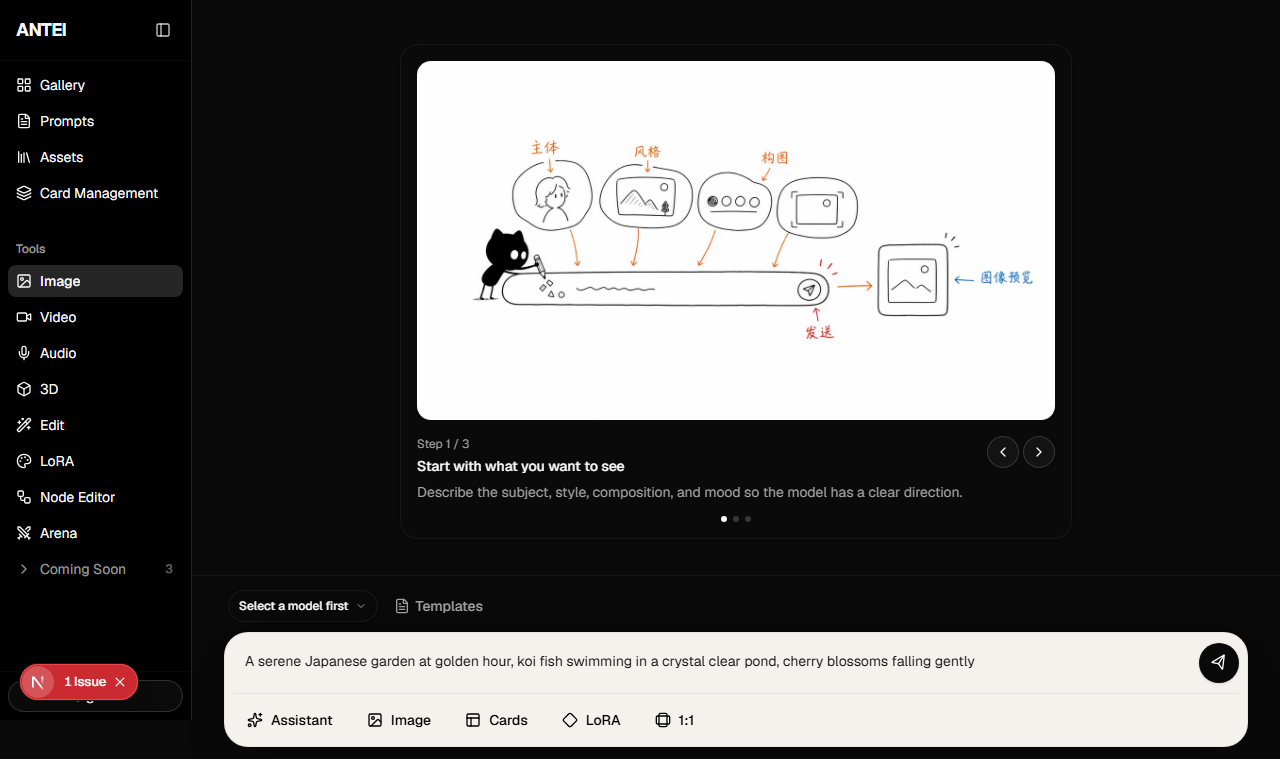
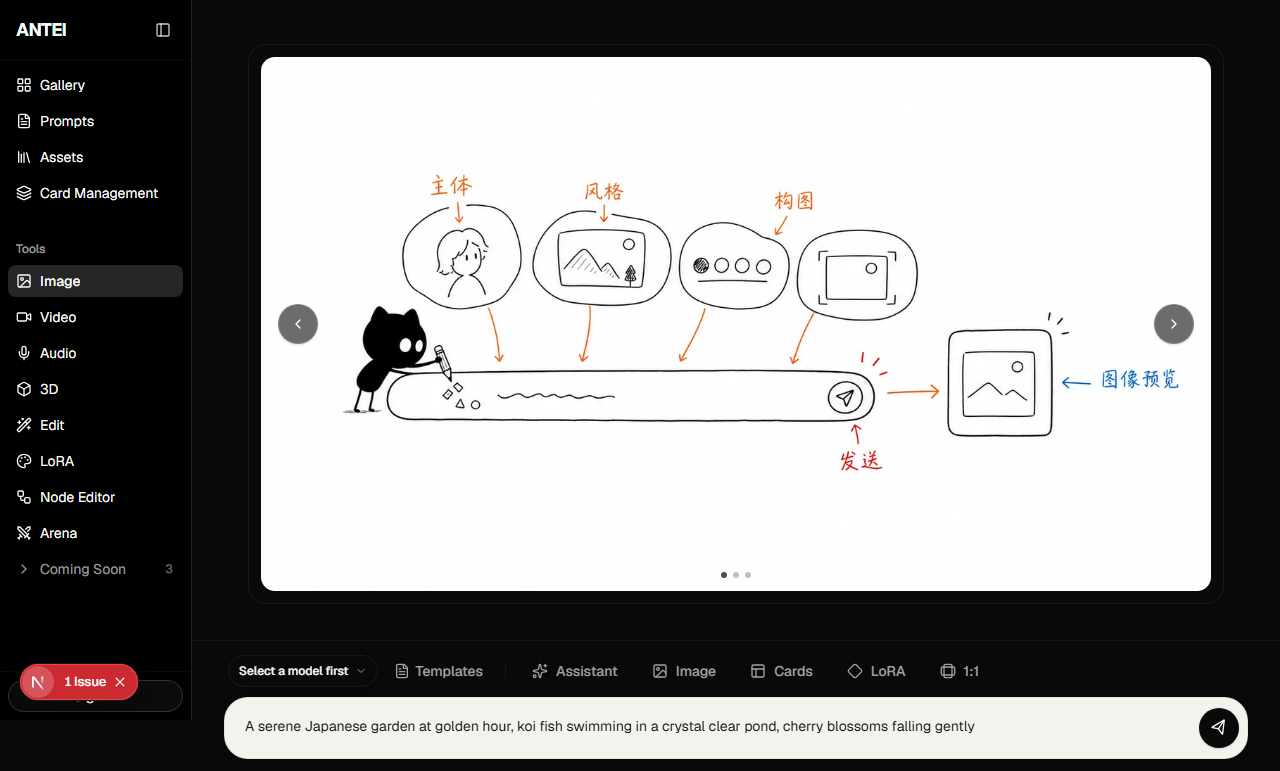
chore(studio): refine dock control layout

diff --git a/src/components/business/studio-shared/XiaoheiGuideCarousel.tsx b/src/components/business/studio-shared/XiaoheiGuideCarousel.tsx
@@ -115,7 +115,7 @@ export function XiaoheiGuideCarousel({
     <section
       aria-label={t(`${guideId}.label`)}
       className={cn(
-        'mx-auto w-full max-w-2xl rounded-2xl border border-border/60 bg-background/90 p-3 shadow-sm backdrop-blur sm:p-4',
+        'mx-auto w-full max-w-5xl rounded-2xl border border-border/60 bg-background/90 p-2 shadow-sm backdrop-blur sm:p-3',
         className,
       )}
     >
@@ -124,63 +124,45 @@ export function XiaoheiGuideCarousel({
           src={activeSlide.imageSrc}
           alt={t(`${slideKey}.alt`)}
           fill
-          sizes="(max-width: 768px) 92vw, 42rem"
+          sizes="(max-width: 768px) 92vw, (max-width: 1280px) 72vw, 64rem"
           className="object-contain"
           priority={false}
         />
-      </div>
-      <div className="mt-3 flex items-start justify-between gap-3 sm:mt-4">
-        <div className="min-w-0">
-          <p className="text-xs text-muted-foreground">
-            {t('stepCounter', {
-              current: activeIndex + 1,
-              total: slides.length,
-            })}
-          </p>
-          <p className="mt-1 text-sm font-medium text-foreground">
-            {t(`${slideKey}.title`)}
-          </p>
-          <p className="mt-1 text-sm leading-6 text-muted-foreground">
-            {t(`${slideKey}.description`)}
-          </p>
+        <Button
+          type="button"
+          variant="ghost"
+          size="icon"
+          className="absolute left-3 top-1/2 size-9 -translate-y-1/2 rounded-full border border-white/15 bg-neutral-950/60 text-white shadow-sm backdrop-blur transition-colors hover:bg-neutral-950/75 hover:text-white sm:left-4 sm:size-10"
+          onClick={goToPrevious}
+        >
+          <ChevronLeft className="size-4" />
+          <span className="sr-only">{t('previous')}</span>
+        </Button>
+        <Button
+          type="button"
+          variant="ghost"
+          size="icon"
+          className="absolute right-3 top-1/2 size-9 -translate-y-1/2 rounded-full border border-white/15 bg-neutral-950/60 text-white shadow-sm backdrop-blur transition-colors hover:bg-neutral-950/75 hover:text-white sm:right-4 sm:size-10"
+          onClick={goToNext}
+        >
+          <ChevronRight className="size-4" />
+          <span className="sr-only">{t('next')}</span>
+        </Button>
+        <div className="absolute inset-x-0 bottom-3 flex justify-center gap-1.5">
+          {slides.map((slide, index) => (
+            <button
+              key={slide.key}
+              type="button"
+              aria-label={t('goToStep', { step: index + 1 })}
+              aria-current={index === activeIndex}
+              onClick={() => setActiveIndex(index)}
+              className={cn(
+                'size-1.5 rounded-full bg-black/25 ring-1 ring-white/50 transition-colors',
+                index === activeIndex && 'bg-black/70',
+              )}
+            />
+          ))}
         </div>
-        <div className="flex shrink-0 items-center gap-1">
-          <Button
-            type="button"
-            variant="outline"
-            size="icon"
-            className="size-8 rounded-full bg-background/80"
-            onClick={goToPrevious}
-          >
-            <ChevronLeft className="size-4" />
-            <span className="sr-only">{t('previous')}</span>
-          </Button>
-          <Button
-            type="button"
-            variant="outline"
-            size="icon"
-            className="size-8 rounded-full bg-background/80"
-            onClick={goToNext}
-          >
-            <ChevronRight className="size-4" />
-            <span className="sr-only">{t('next')}</span>
-          </Button>
-        </div>
-      </div>
-      <div className="mt-3 flex justify-center gap-1.5">
-        {slides.map((slide, index) => (
-          <button
-            key={slide.key}
-            type="button"
-            aria-label={t('goToStep', { step: index + 1 })}
-            aria-current={index === activeIndex}
-            onClick={() => setActiveIndex(index)}
-            className={cn(
-              'size-1.5 rounded-full bg-muted-foreground/30 transition-colors',
-              index === activeIndex && 'bg-foreground',
-            )}
-          />
-        ))}
       </div>
     </section>
   )

diff --git a/src/components/business/studio/StudioPromptArea.tsx b/src/components/business/studio/StudioPromptArea.tsx
@@ -1004,15 +1004,15 @@ export const StudioPromptArea = memo(function StudioPromptArea() {
           <AnimatePresence initial={false}>
             {isComposerExpanded && (
               <motion.div
-                key="composer-quick-controls"
+                key="composer-dock-controls"
                 className="overflow-hidden"
                 initial={{ height: 0, opacity: 0, y: 8, marginBottom: 0 }}
                 animate={{ height: 'auto', opacity: 1, y: 0, marginBottom: 8 }}
                 exit={{ height: 0, opacity: 0, y: 6, marginBottom: 0 }}
                 transition={motionTransition('slow', reducedMotion)}
               >
-                <div className="flex items-center justify-between gap-2 px-1">
-                  <div className="flex min-w-0 items-center gap-1.5">
+                <div className="studio-dock-control-row flex flex-col gap-2 px-1 md:flex-row md:items-center md:gap-3">
+                  <div className="flex min-w-0 shrink-0 items-center gap-1.5">
                     {state.workflowMode === 'quick' && (
                       <MainModelPicker
                         modality={
@@ -1057,6 +1057,25 @@ export const StudioPromptArea = memo(function StudioPromptArea() {
                       }
                       prompt={placeholderDialog.prompt}
                       onApply={applyInspirationPrompt}
+                    />
+                  </div>
+                  <div
+                    aria-hidden="true"
+                    className="hidden h-4 w-px shrink-0 bg-border/60 md:block"
+                  />
+                  <div className="relative min-w-0 md:flex-1">
+                    <div className="overflow-x-auto">
+                      <div className="flex min-w-max items-center">
+                        <StudioToolbarPanels compact />
+                      </div>
+                    </div>
+                    <div
+                      aria-hidden="true"
+                      className="pointer-events-none absolute inset-y-0 left-0 w-4 bg-gradient-to-r from-background to-transparent md:hidden"
+                    />
+                    <div
+                      aria-hidden="true"
+                      className="pointer-events-none absolute inset-y-0 right-0 w-4 bg-gradient-to-l from-background to-transparent md:hidden"
                     />
                   </div>
                 </div>
@@ -1160,22 +1179,6 @@ export const StudioPromptArea = memo(function StudioPromptArea() {
                 </button>
               </PromptInputActions>
             </div>
-            <AnimatePresence initial={false}>
-              {isComposerExpanded && (
-                <motion.div
-                  key="composer-tools"
-                  className="overflow-hidden"
-                  initial={{ height: 0, opacity: 0, y: -4 }}
-                  animate={{ height: 'auto', opacity: 1, y: 0 }}
-                  exit={{ height: 0, opacity: 0, y: -4 }}
-                  transition={motionTransition('slow', reducedMotion)}
-                >
-                  <div className="mt-2 overflow-x-auto border-t border-neutral-200 pt-2 text-black [&_button]:text-black [&_svg]:text-black">
-                    <StudioToolbarPanels compact />
-                  </div>
-                </motion.div>
-              )}
-            </AnimatePresence>
           </motion.div>
           {isAudioMode && (
             <div